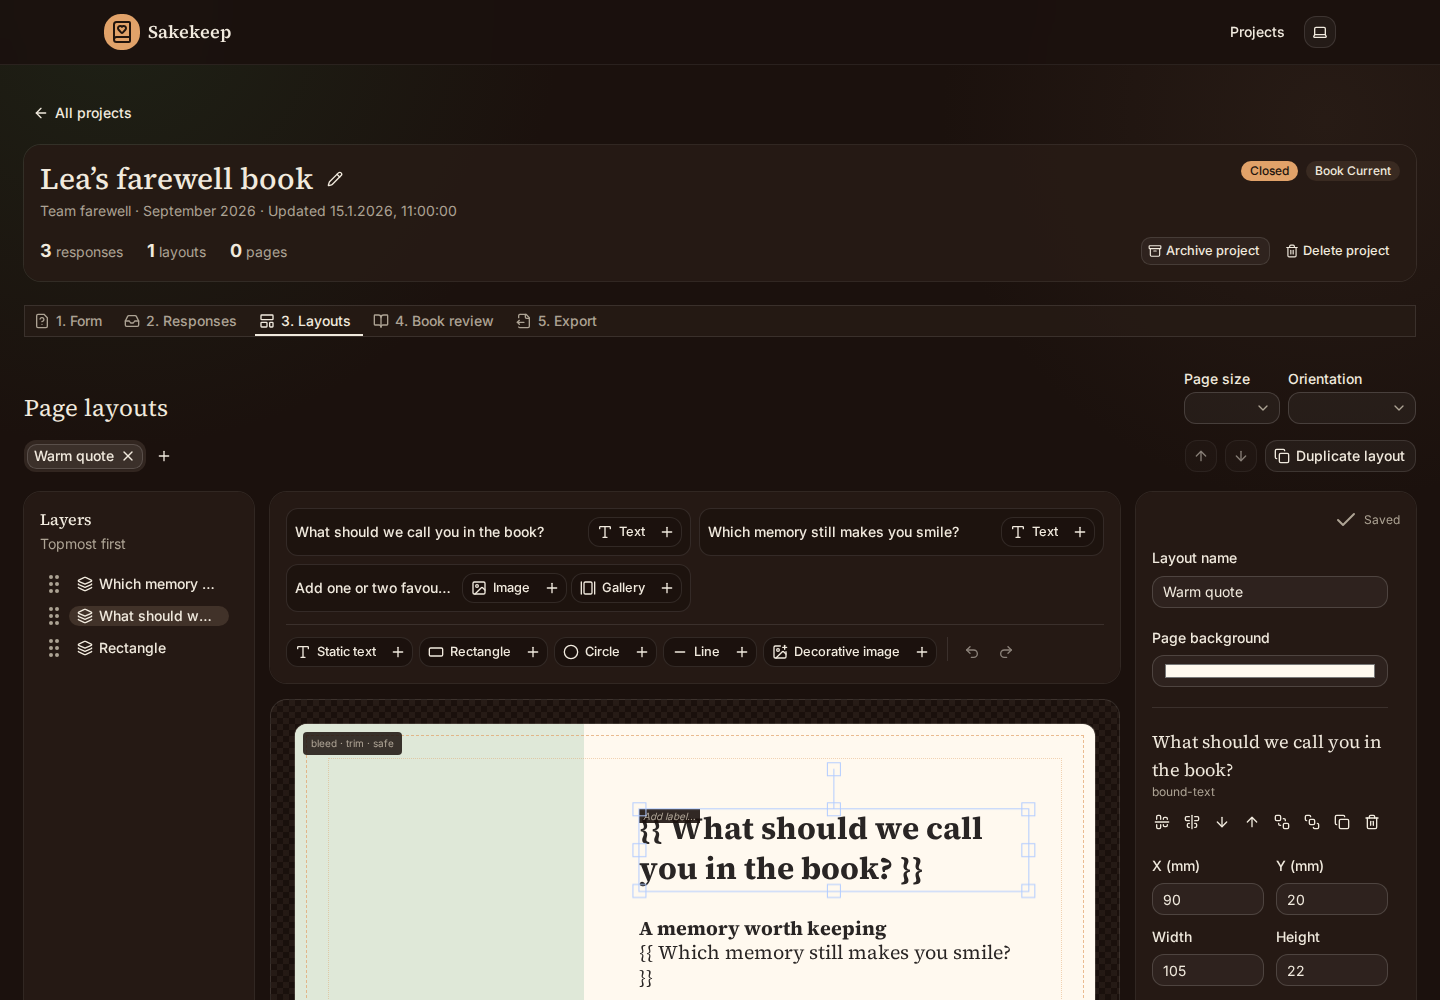
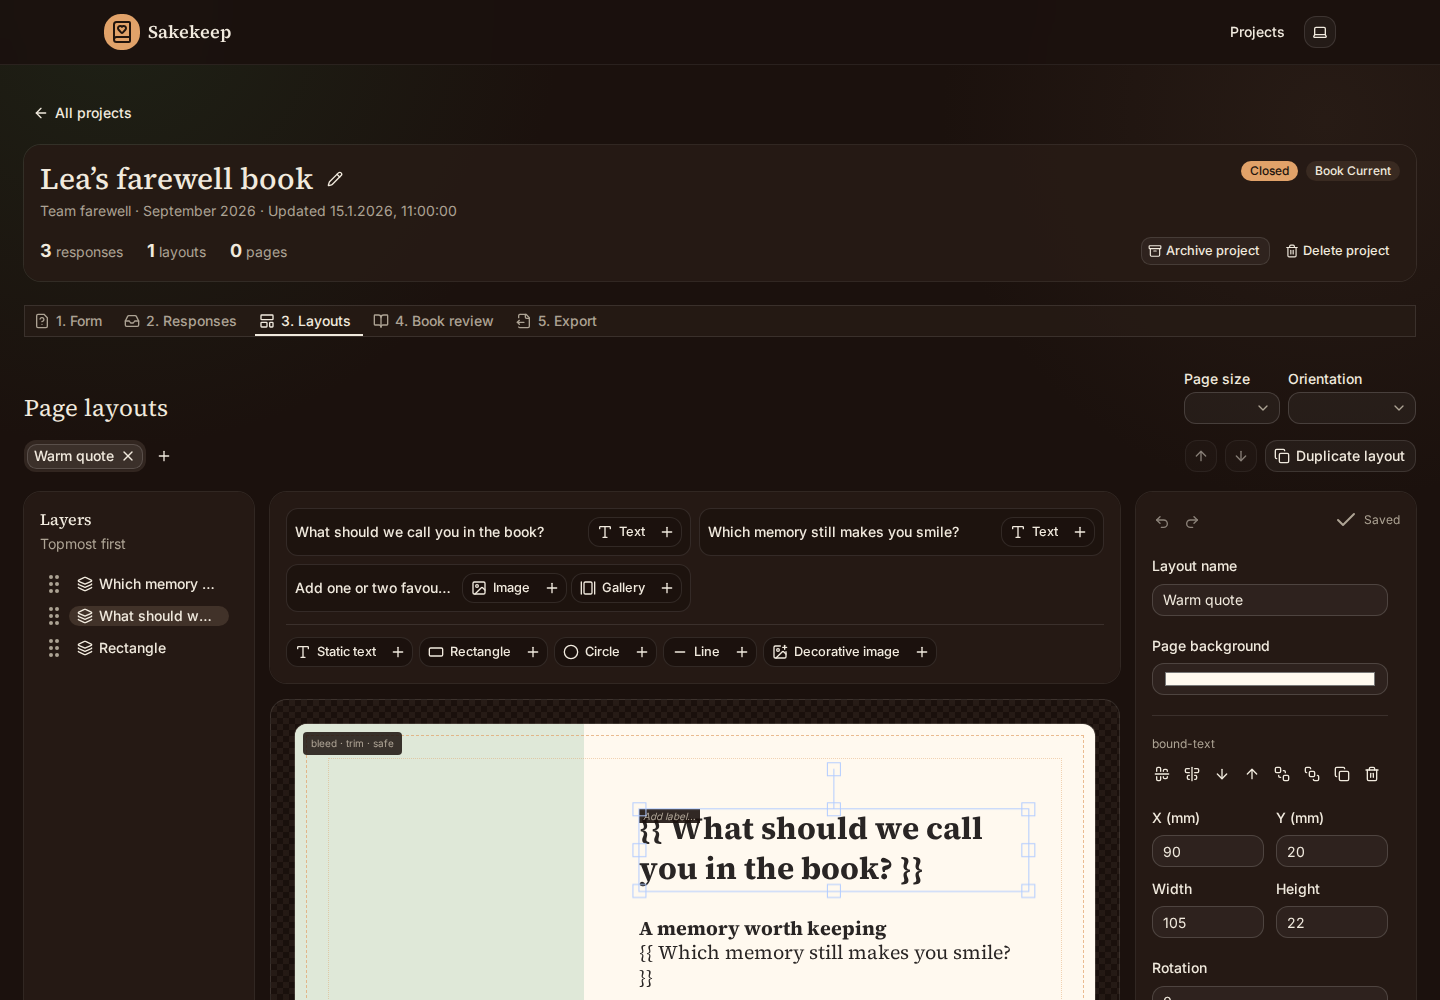
feat(layouts): Move undo and redo into the inspector too
Summary:
- put undo and redo in the inspector header, opposite the save
  indicator, and drop them from the palette toolbar above the canvas
- remove the selected element's question text from the inspector; the
  element type stays as the small label above the actions
- assert both history buttons live in the inspector card, and refresh
  the after capture for issue 76

Rationale:
- every editor action now lives in one panel, so arranging a page no
  longer moves between the toolbar and the sidebar
- the question prompt already names the element in the layers list and
  on the canvas, and wrapped over two lines at the top of the sidebar

Tests:
- format:check, lint, typecheck pass
- the new e2e expectations replayed against a running dev server with
  the project API stubbed; Docker is unavailable here, so CI runs the
  unit and e2e suites

Related to #76

AI-Assisted: true
AI-Agent: claude-code
AI-Model: anthropic/claude-opus-5

Changed region(s): [[0.7812, 0.558, 0.9688, 0.992]]

diff --git a/src/components/layout-editor.tsx b/src/components/layout-editor.tsx
@@ -540,10 +540,7 @@ function ElementInspector({
   return (
     <div className="flex flex-col gap-5">
       <div className="flex flex-col gap-2">
-        <div>
-          <p className="font-heading text-lg">{elementLabel(element, questions)}</p>
-          <p className="text-xs text-muted-foreground">{element.type}</p>
-        </div>
+        <p className="text-xs text-muted-foreground">{element.type}</p>
         <div className="-mx-1 flex flex-wrap items-center gap-0.5">{actions}</div>
       </div>
       <FieldGroup>
@@ -1252,40 +1249,6 @@ const Editor = forwardRef<
                 dragData={{ type: "decorative-image" }}
                 onAdd={() => add("decorative-image")}
               />
-              <Separator orientation="vertical" className="mx-1 h-6" />
-              <IconAction label="Undo" disabled={historyIndex.current <= 0}>
-                <Button
-                  variant="ghost"
-                  size="icon-sm"
-                  aria-label="Undo"
-                  disabled={historyIndex.current <= 0}
-                  onClick={() => {
-                    if (historyIndex.current <= 0) return
-                    historyIndex.current -= 1
-                    markChanged(structuredClone(history.current[historyIndex.current]!), false)
-                  }}
-                >
-                  <Undo2Icon />
-                </Button>
-              </IconAction>
-              <IconAction
-                label="Redo"
-                disabled={historyIndex.current >= history.current.length - 1}
-              >
-                <Button
-                  variant="ghost"
-                  size="icon-sm"
-                  aria-label="Redo"
-                  disabled={historyIndex.current >= history.current.length - 1}
-                  onClick={() => {
-                    if (historyIndex.current >= history.current.length - 1) return
-                    historyIndex.current += 1
-                    markChanged(structuredClone(history.current[historyIndex.current]!), false)
-                  }}
-                >
-                  <Redo2Icon />
-                </Button>
-              </IconAction>
             </div>
           </CardContent>
         </Card>
@@ -1312,6 +1275,38 @@ const Editor = forwardRef<
         className="h-[28rem] bg-card/90 xl:sticky xl:top-20 xl:h-[calc(100dvh-6rem)]"
       >
         <CardHeader>
+          <div className="-mx-1 flex items-center gap-0.5">
+            <IconAction label="Undo" disabled={historyIndex.current <= 0}>
+              <Button
+                variant="ghost"
+                size="icon-sm"
+                aria-label="Undo"
+                disabled={historyIndex.current <= 0}
+                onClick={() => {
+                  if (historyIndex.current <= 0) return
+                  historyIndex.current -= 1
+                  markChanged(structuredClone(history.current[historyIndex.current]!), false)
+                }}
+              >
+                <Undo2Icon />
+              </Button>
+            </IconAction>
+            <IconAction label="Redo" disabled={historyIndex.current >= history.current.length - 1}>
+              <Button
+                variant="ghost"
+                size="icon-sm"
+                aria-label="Redo"
+                disabled={historyIndex.current >= history.current.length - 1}
+                onClick={() => {
+                  if (historyIndex.current >= history.current.length - 1) return
+                  historyIndex.current += 1
+                  markChanged(structuredClone(history.current[historyIndex.current]!), false)
+                }}
+              >
+                <Redo2Icon />
+              </Button>
+            </IconAction>
+          </div>
           <CardAction>
             <SaveIndicator state={saveState} />
           </CardAction>

diff --git a/e2e/critical-workflows.spec.ts b/e2e/critical-workflows.spec.ts
@@ -349,6 +349,8 @@ test.describe.serial("critical local prototype workflows", () => {
     const renderedCanvas = page.locator("canvas.upper-canvas")
     const inspectorCard = page.locator('[data-slot="card"][aria-label="Inspector"]')
     const deleteAction = inspectorCard.getByRole("button", { name: "Delete selected element" })
+    await expect(inspectorCard.getByRole("button", { name: "Undo" })).toBeVisible()
+    await expect(inspectorCard.getByRole("button", { name: "Redo" })).toBeVisible()
     const clearSelection = async () => {
       const bounds = await renderedCanvas.boundingBox()
       expect(bounds).not.toBeNull()
